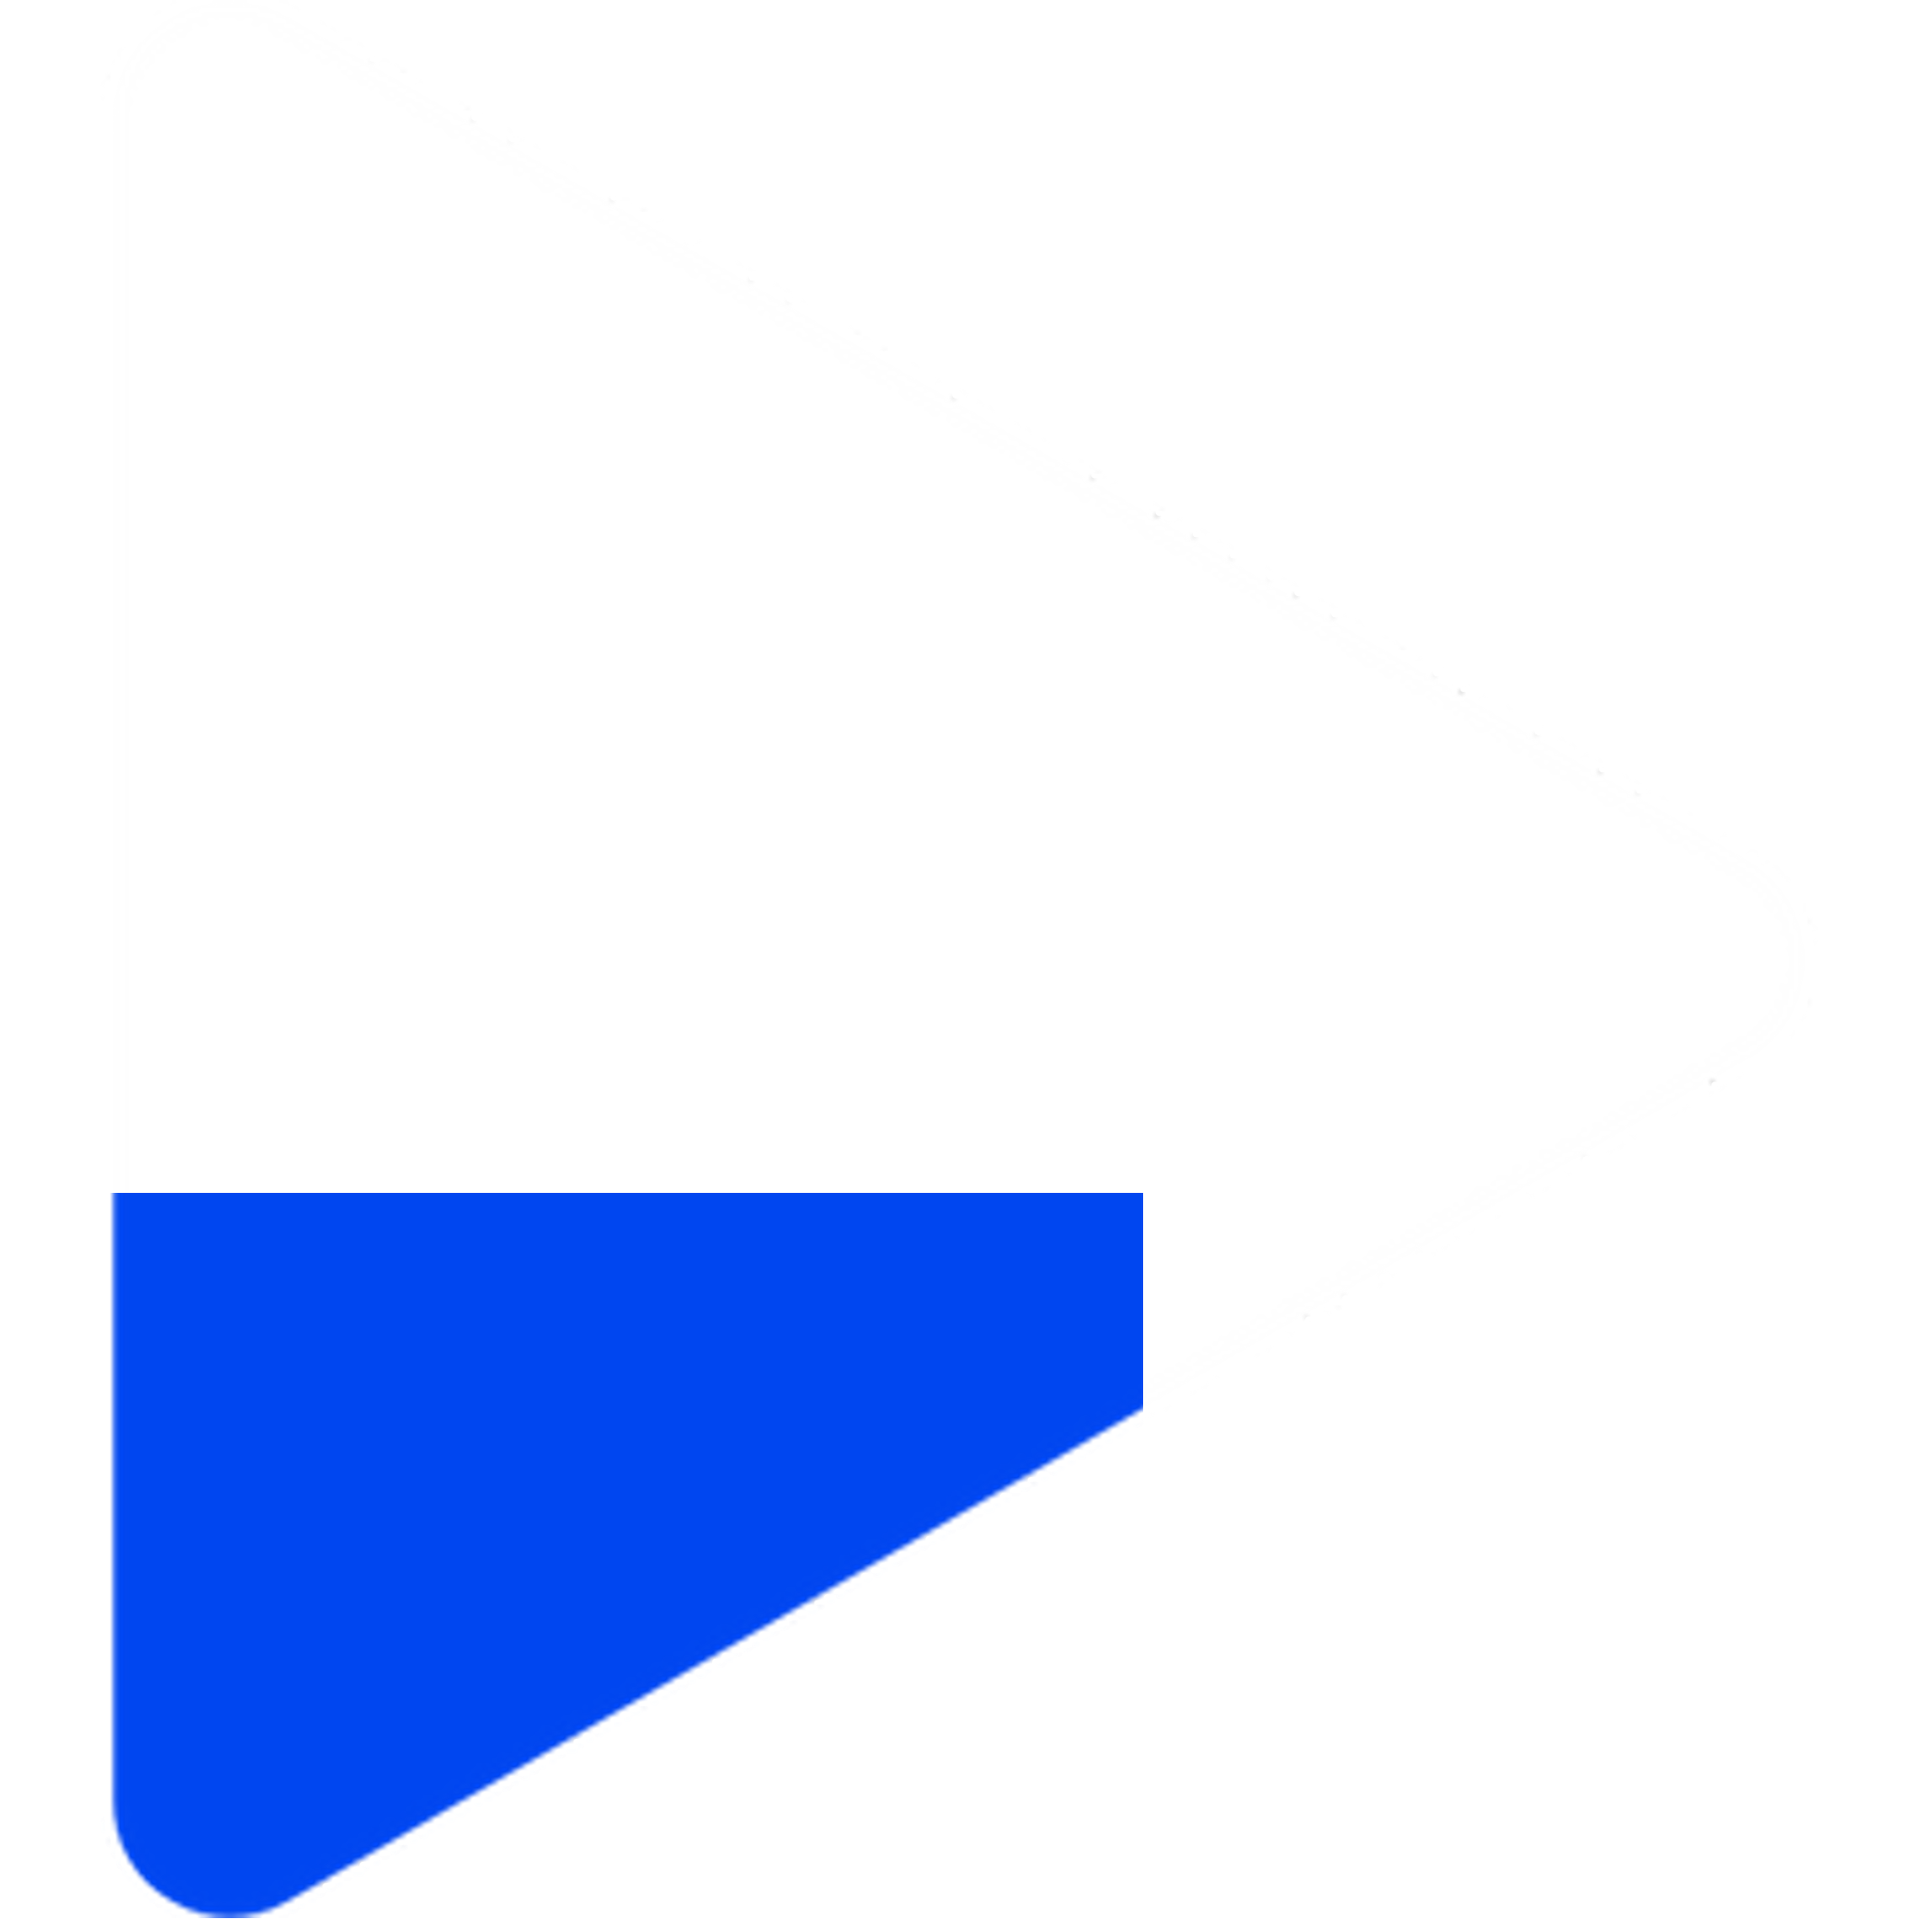
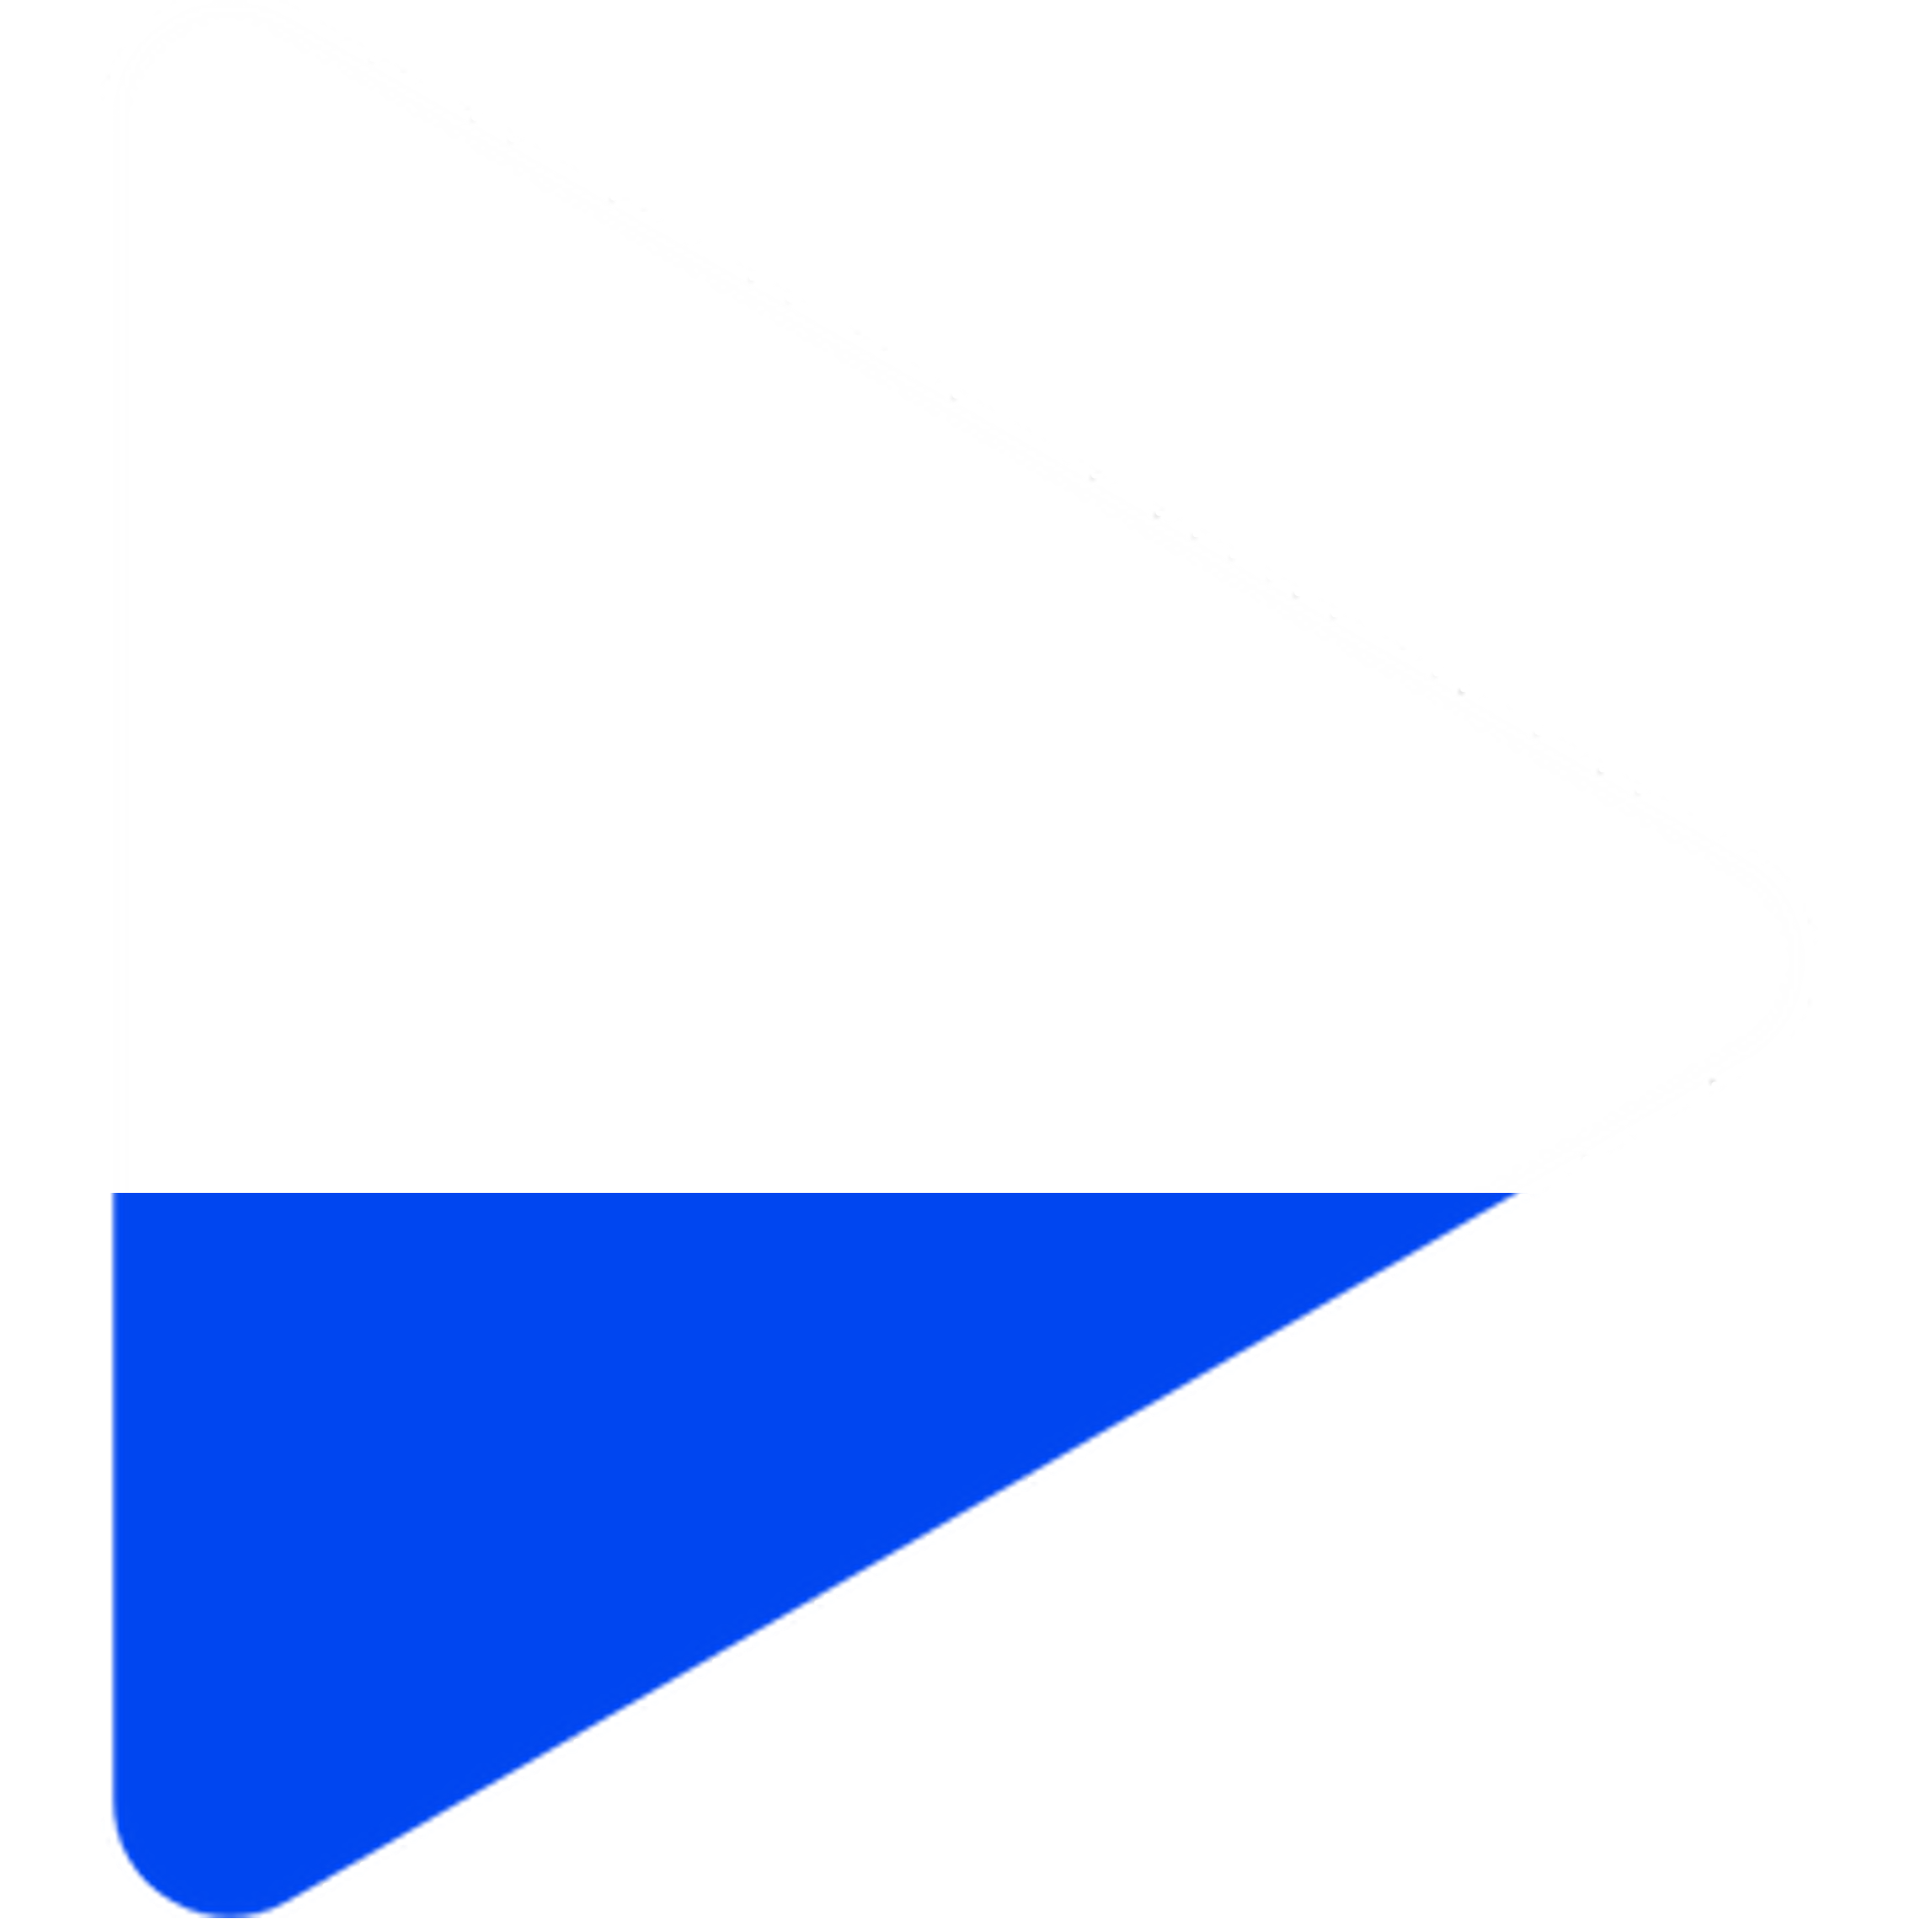
bat or au bat

Changed region(s): [[0.5938, 0.5938, 0.7812, 0.75]]

diff --git a/GUI/main.py b/GUI/main.py
@@ -166,16 +166,16 @@ class SignalclassifierApp(App):
         self.frequency_label_box = CustomLabel(size_hint=(None, None), size=(int(Window.width*.53), int(Window.height*.045)), pos_hint={'center_x': 0.425, 'top': 0.46}, color=utils.get_color_from_hex('#0046F0'))
         self.layout.add_widget(self.amplitude_label_box)
         self.layout.add_widget(self.frequency_label_box)
-        self.setup_param_box = CustomLabel(text=f'Sätze deine Parameter', size_hint=(None, None), size=(int(Window.width*.55), int(Window.height*.06)), pos_hint={'center_x': 0.425, 'top': .76})
-        self.setup_param_label = Label(text=f'Select an vehicle component and set parameters', size_hint=(None, None), size=(int(Window.width*.55), int(Window.height*.05)), pos_hint={'center_x': 0.425, 'top': 0.76}, color=utils.get_color_from_hex('#0046F0'), font_size='22sp', font_context='system://myapp', font_name='OpenSans-Bold.ttf')
+        self.setup_param_box = CustomLabel(text=f'Sätze deine Parameter', size_hint=(None, None), size=(int(Window.width*.625), int(Window.height*.06)), pos_hint={'center_x': 0.425, 'top': .76})
+        self.setup_param_label = Label(text=f'Select an vehicle component and set parameters', size_hint=(None, None), size=(int(Window.width*.625), int(Window.height*.05)), pos_hint={'center_x': 0.425, 'top': 0.76}, color=utils.get_color_from_hex('#0046F0'), font_size='22sp', font_context='system://myapp', font_name='OpenSans-Bold.ttf')
         self.setup_param_label.bind(on_press=self.on_but_button_click)
         self.setup_param_label.bind(on_press=self.on_Lichtmaschine_button_click)
         self.layout.add_widget(self.setup_param_box)
         self.layout.add_widget(self.setup_param_label)
         self.start_sig_box = CustomLabel(text=f'Gererieren', size_hint=(None, None), size=(int(Window.width*.4), int(Window.height*.12)), pos_hint={'center_x': 0.7, 'top': 0.208}, color=(1, 1, 1, 1))
         self.start_sig = Label(text=f'Generate custom signal', size_hint=(None, None), size=(int(Window.width*.4), int(Window.height*.12)), pos_hint={'center_x': 0.7, 'top': 0.208}, color=utils.get_color_from_hex('#0046F0'), font_size='22sp',  font_context='system://myapp', font_name='OpenSans-Bold.ttf')
-        self.play_button2_image = Image(source='GUI/images/play.png', size_hint=(None, None), size=(Window.height*.16, Window.height*.16), pos_hint={'center_x': 0.52, 'top': 0.288})
-        self.play_button2 = Button( background_color= (0, 0, 0, 0), size_hint=(None, None), size=(Window.height*.15, Window.height*.19), pos_hint={'center_x': 0.53, 'top': 0.288}, border=(0, 0, 0, 0))
+        self.play_button2_image = Image(source='GUI/images/play.png', size_hint=(None, None), size=(int(Window.height*.16), int(Window.height*.16)), pos_hint={'center_x': 0.52, 'top': 0.288})
+        self.play_button2 = Button( background_color= (0, 0, 0, 0), size_hint=(None, None), size=(int(Window.height*.5), (Window.height*.19)), pos_hint={'center_x': 0.53, 'top': 0.288}, border=(0, 0, 0, 0))
         self.play_button2.bind(on_press=self.on_play_button_click2)
         self.layout.add_widget(self.start_sig_box)
         self.layout.add_widget(self.start_sig)
@@ -196,7 +196,7 @@ class SignalclassifierApp(App):
         self.rem_sig_box = CustomLabel(text=f'zu sig', size_hint=(None, None), size=(int(Window.height*.4),int(Window.height*.12)), pos_hint={'center_x': 0.25, 'top': 0.908}, color=(1, 1, 1, 1))
         self.layout.add_widget(self.rem_sig_box)
         self.layout.add_widget(self.rem_sig_label)
-        self.rem_button_image = Image(source='GUI/images/rem.png', size_hint=(None, None), size=(Window.height*.12, Window.height*.12), pos_hint={'center_x': 0.36, 'top': 0.99})
+        self.rem_button_image = Image(source='GUI/images/rem.png', size_hint=(None, None), size=(Window.height*.14, Window.height*.14), pos_hint={'center_x': 0.36, 'top': 0.99})
         self.layout.add_widget(self.rem_button_image)
         self.rem_button = Button(background_color= (0, 0, 0, 0), size_hint=(None, None), size=(int(Window.height*.4),int(Window.height*.12)), pos_hint={'center_x': 0.25, 'top': 0.99}, border=(0, 0, 0, 0))
         self.rem_button.bind(on_press=self.on_rem_button_click)
